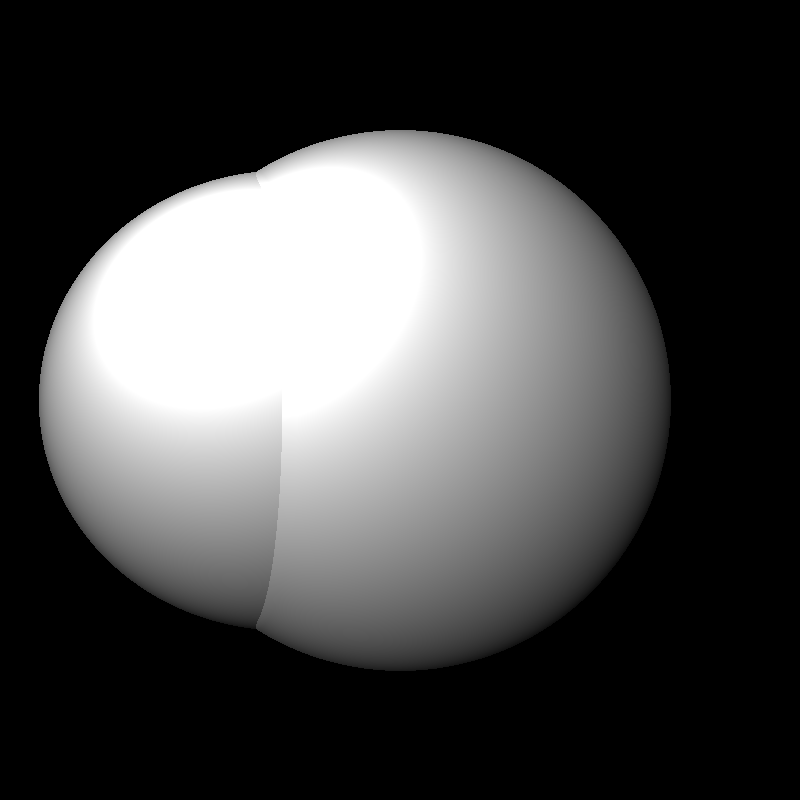
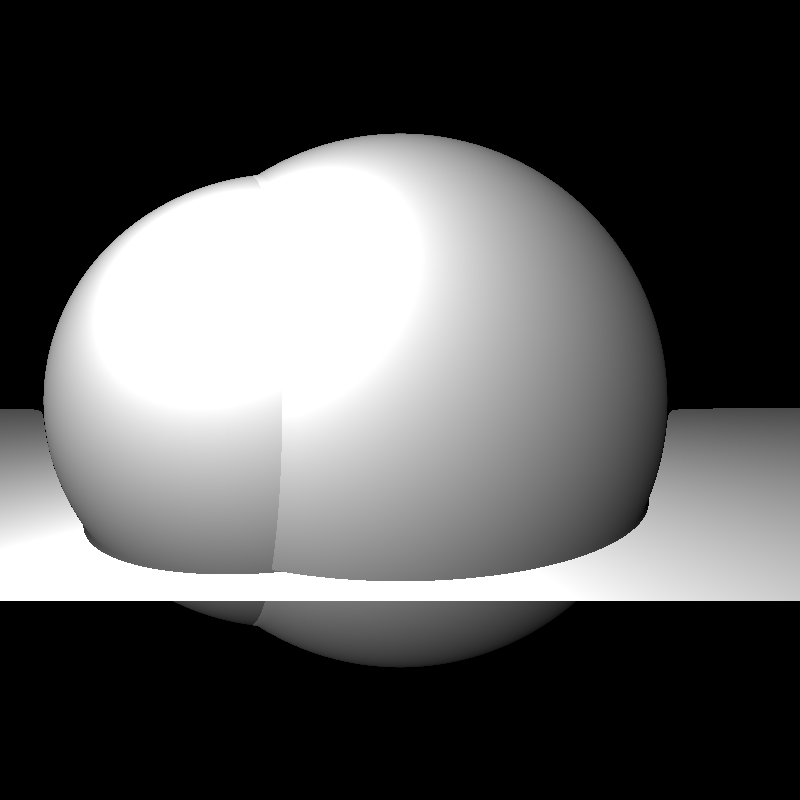
add board object

diff --git a/multi-object/src/objects/board.rs b/multi-object/src/objects/board.rs
@@ -1,0 +1,34 @@
+/*============================================================================
+  Copyright (C) 2016 akitsu sanae
+  https://github.com/akitsu-sanae/raytr
+  Distributed under the Boost Software License, Version 1.0. (See accompanying
+  file LICENSE or copy at http://www.boost.org/LICENSE_1_0.txt)
+============================================================================*/
+
+use na::{Vector3, dot, Norm};
+use objects::Object;
+
+pub struct Board {
+    normal: Vector3<f32>,
+    diff: f32,
+}
+
+impl Board {
+    pub fn new() -> Self {
+        Board {
+            normal: Vector3::new(0.0, 1.0, 0.0),
+            diff: -1.0,
+        }
+    }
+}
+
+impl Object for Board {
+    fn distance(&self, p: &Vector3<f32>) -> f32 {
+        (dot(&self.normal, &p) + self.diff).abs() / self.normal.norm()
+    }
+
+    fn normal(&self, p: &Vector3<f32>) -> Vector3<f32> {
+        -self.normal
+    }
+}
+

diff --git a/multi-object/src/main.rs b/multi-object/src/main.rs
@@ -21,6 +21,7 @@ mod objects;
 mod ray;
 mod light;
 use objects::sphere::Sphere;
+use objects::board::Board;
 use objects::Object;
 use ray::Ray;
 use light::Light;
@@ -37,7 +38,8 @@ fn main() {
         center: Vector3::new(0.0, 0.5, 0.0),
         radius: 1.5,
     };
-    let objs = vec![sphere1, sphere2];
+    let board: Box<Board> = box Board::new();
+    let objs = vec![sphere1, sphere2, board];
     let light = Light {
         origin: Vector3::new(0.0, 0.0, -2.0),
     };

diff --git a/multi-object/src/ray.rs b/multi-object/src/ray.rs
@@ -36,7 +36,7 @@ impl Ray {
 
     fn collision<'a>(&'a self, objs: &'a Vec<Box<Object> >) -> Option<(Vector3<f32>, &Box<Object>)> {
         let mut pos = self.origin.clone();
-        for _ in {0 .. 15} {
+        for _ in {0 .. 100} {
             let dis = objs.iter().map(|obj| obj.distance(&pos)).fold(0.0/0.0, |m, v| {
                 v.min(m)
             });

diff --git a/multi-object/src/objects/mod.rs b/multi-object/src/objects/mod.rs
@@ -8,6 +8,7 @@
 use na::Vector3;
 
 pub mod sphere;
+pub mod board;
 
 pub trait Object {
     fn distance(&self, p: &Vector3<f32>) -> f32;
